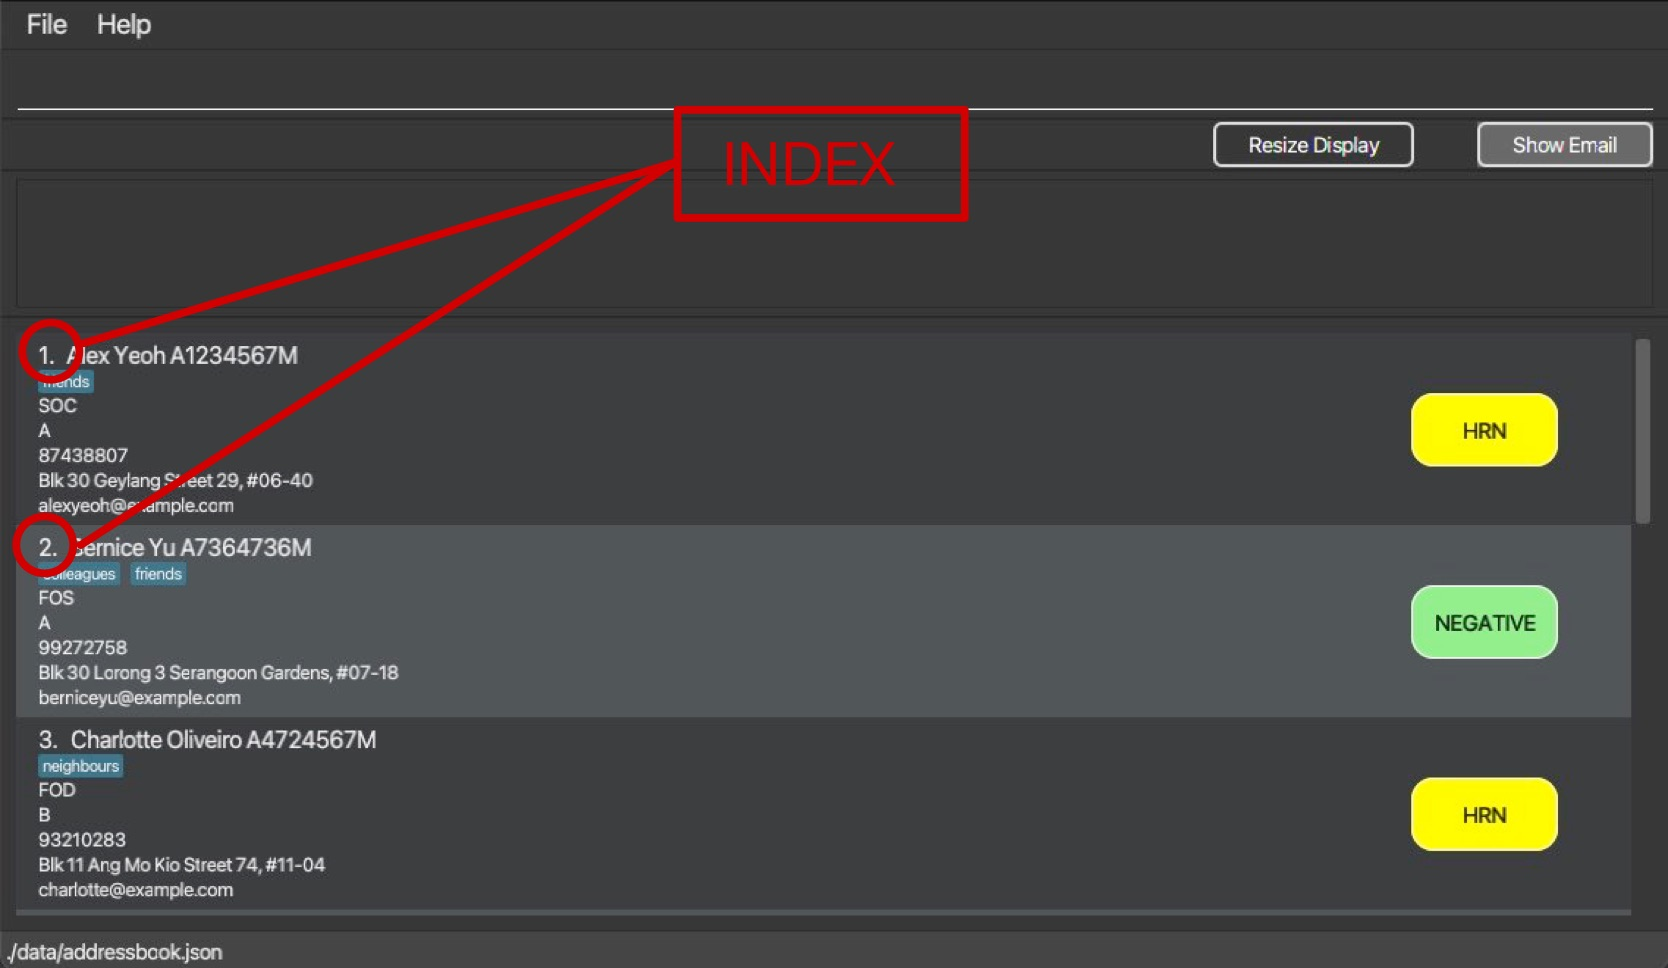
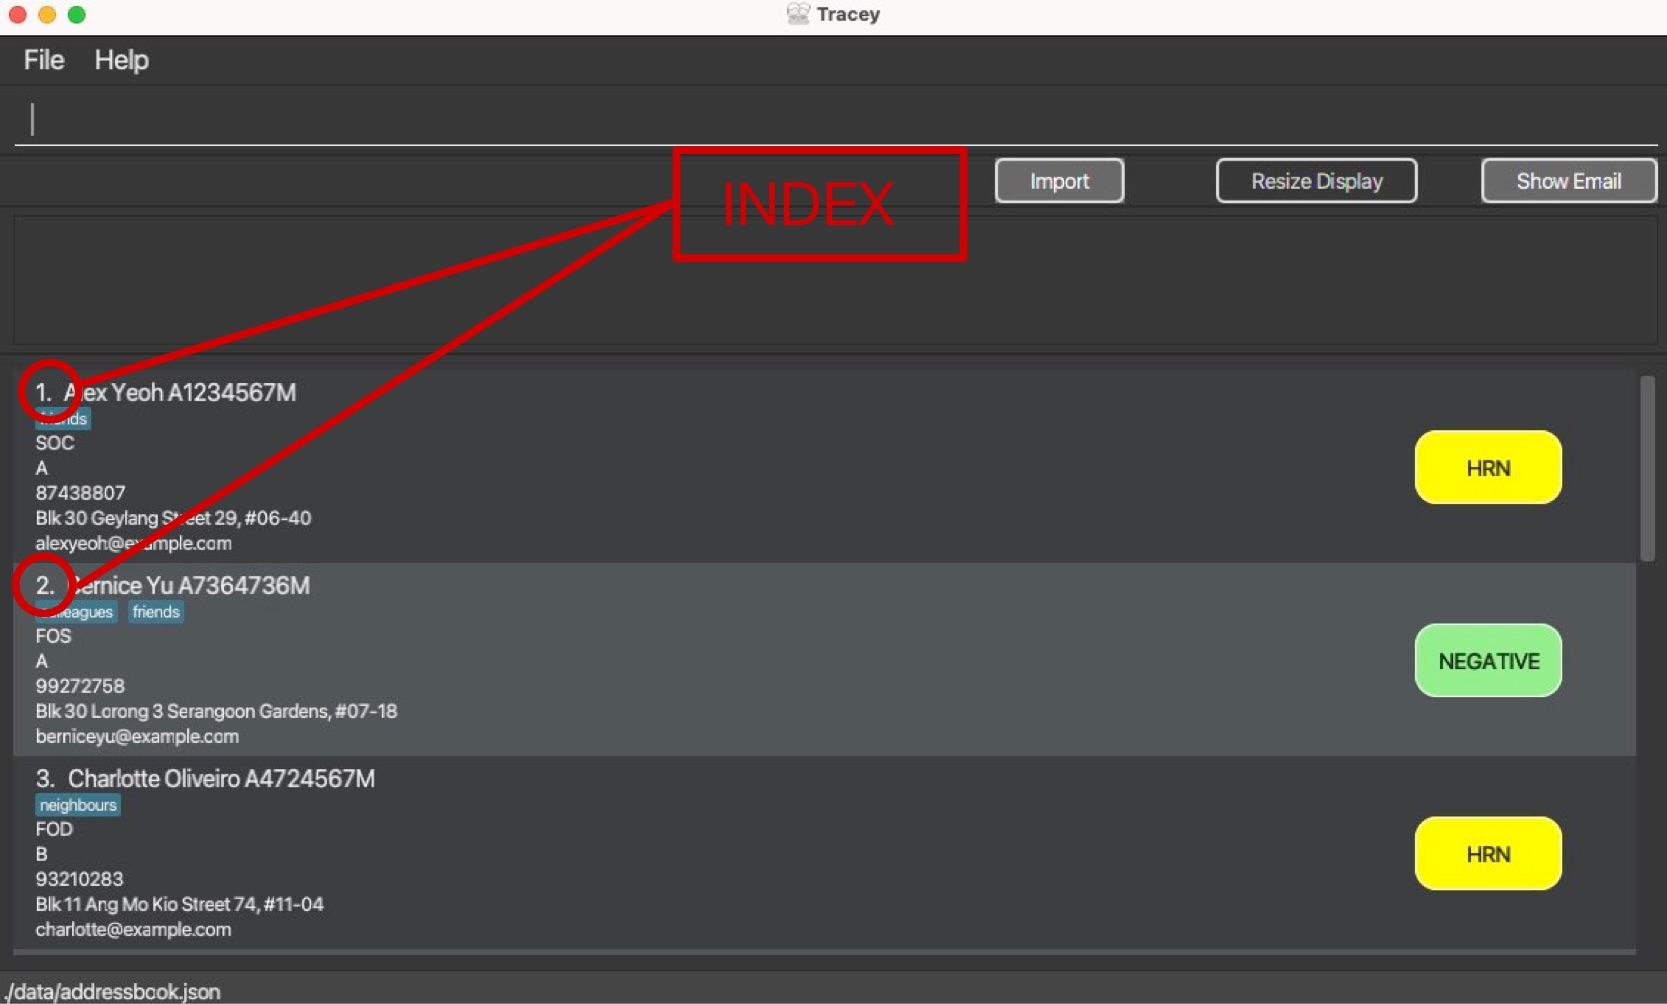
Make user guide have all relevant commands

diff --git a/docs/UserGuide.md b/docs/UserGuide.md
@@ -9,8 +9,10 @@ Tracey is a **desktop app for managing health statuses of NUS Hall Residents, op
 Interface** (CLI) while still having the benefits of a Graphical User Interface (GUI). If you can type fast,
 Tracey can get your student health status management tasks done faster than traditional GUI apps.
 
-What are CLIs? What are GUIs?
+<details>
+  <summary>What are CLIs?</summary>
 
+##  What are GUIs?
 1) CLIs are Command Line Interfaces. CLIs connect you to a computer program and through the CLI, you can interact with the application by typing in texts (commands).
 2) GUIs are Graphical User Interfaces. GUIs are a system of interactive visual components for computer applications. You can interact with a GUI through a pointing device, such as your mouse.
 
@@ -19,11 +21,13 @@ Note that the main difference between GUI and CLI is the method of interaction.
 As Tracey is a Command Line Interface, these are the aspects that highlight the power of Tracey and why it was developed using a CLI:
 
 1. **Speed** <br>
-Tracey offers immense response speed. GUIs require additional resources to render graphical components, making them slower than CLIs.
+   Tracey offers immense response speed. GUIs require additional resources to render graphical components, making them slower than CLIs.
 2. **Functionality** <br>
-Tracey offers flexibility in its use. A typical GUI does not have the same level of functionality and granular control as a typical CLI. This is portrayed in the variety of features that Tracey offers, which you can learn about more in this User Guide.
+   Tracey offers flexibility in its use. A typical GUI does not have the same level of functionality and granular control as a typical CLI. This is portrayed in the variety of features that Tracey offers, which you can learn about more in this User Guide.
 3. **Scalability** <br>
-Simple command functions in Tracey allows it to handle various complex features. Additionally, the CLI of Tracey allows easier integration of newer features that may be added in future iterations, compared to GUIs which require rendering and creation of graphical components.
+   Simple command functions in Tracey allows it to handle various complex features. Additionally, the CLI of Tracey allows easier integration of newer features that may be added in future iterations, compared to GUIs which require rendering and creation of graphical components.
+
+</details>
 
 Sounds exciting? Proceed on to the next section to learn more about Tracey!
 
@@ -92,7 +96,7 @@ Additional formatting guidelines:
 3. Copy the file to the folder you want to use as the home folder for your Tracey application.
 4. Double-click the file to start the app. The GUI similar to the below should appear in a few seconds.
    Note how the app contains some sample data. <br>
-   ![Ui](images/UiScreenshot.png) *Figure 1: Screenshot showing sample data* <br>
+   ![Ui](images/UiScreenshot.png) *Figure 1: Screenshot showing sample data.* <br>
    📓`Note:`
    1. If you are a Mac user and are unable to open the JAR file after double-clicking, please open Terminal and change directory to where **Tracey.jar** is located. Then, type the following command to open the application: `java -jar Tracey.jar`.
    2. If you are a Windows user and are unable to open the JAR file after double-clicking, please open Command Prompt and change directory to where **Tracey.jar** is located. Then, type the following command to open the application: `java -jar Tracey.jar`.
@@ -132,8 +136,16 @@ Format: `help`
 Add a list of students from an Excel file into Tracey.
 
 Format: import button
-* Adds a list of students with relevant details such as Covid status into Tracey.
-* Relevant details required are mentioned in the section below in the ~Adding a contact~ section. 
+* Adds a list of students with Relevant Details such as Covid status into Tracey.
+* Relevant details required are mentioned in Table 4 below.
+* In the Excel sheet, the first column has to be the names of students followed by the Relevant Details.
+* Tracey will then store all students from the Excel file into her!
+
+Sample Excel file:
+![Excel_Sample](images/Excel_Sample.png) *Figure 3: Screenshot of Excel file.*
+
+How to identify import button:
+![Import_Button](images/Import_Button.png) *Figure 4: Screenshot of import button.*
 
 ### Adding a contact
 Add a student with relevant details into Tracey.
@@ -197,7 +209,7 @@ Format: `edit INDEX n/NAME ...`
 * You can remove all tags of the student by typing `t/` without specifying any details after it.
 
 How to identify `INDEX`:
-![FAQ_IndexLocation](images/FAQ_IndexLocation.png)
+![FAQ_IndexLocation](images/FAQ_IndexLocation.png) *Figure 5: Screenshot of index location.*
 
 Examples of usage:
 * `edit 1 p/91234567 e/johndoe@example.com` edits the phone number and email address of the 1st student to be `91234567`
@@ -218,7 +230,7 @@ Format: `delete INDEX`
 * You can only delete the contact information at an index where there is a student assigned to it.
 
 How to identify `INDEX`:
-![FAQ_IndexLocation](images/FAQ_IndexLocation.png)
+![FAQ_IndexLocation](images/FAQ_IndexLocation.png) *Figure 5: Screenshot of index location.*
 
 Examples of usage:
 * `delete 2` removes the 2nd student on the list.
@@ -252,7 +264,7 @@ Find a particular contact in Tracey and retrieve their specific details.
 Format: `find NAME`
 * Returns the student(s) whose name(s) contain the input keyword `NAME` with their **details**.
 * The **details** provided are the student's `Name`, `Matriculation Number`, `Faculty`, `Block`, `Phone`, `Address`, `Email` amd `Covid Status`.
-* A screenshot (Figure 1) is provided below to demonstrate what the find function returns.
+* A screenshot (Figure 6) is provided below to demonstrate what the find function returns.
 * The search is case-insensitive. e.g `johnDoe` will match `Johndoe`.
 * The search does not require full name. e.g. `jo` will match `Joe` and `John`.
 
@@ -263,9 +275,9 @@ Examples of usages:
 * `find J` returns `john` and`jay`.
 
 Scenario:
-![find](images/FindScreenshotForUG.png) *Figure 3: Screenshot of result of the find command*
+![find](images/FindScreenshotForUG.png) *Figure 6: Screenshot of result of the find command.*
 
-As seen in the *Figure 3*, after the user keys in `find Bernice`, the application returns Bernice's details: `Name`, `Matriculation Number`, `Faculty`, `Block`, `Phone`, `Address`, `Email` amd `Covid Status`.
+As seen in the *Figure 6*, after the user keys in `find Bernice`, the application returns Bernice's details: `Name`, `Matriculation Number`, `Faculty`, `Block`, `Phone`, `Address`, `Email` amd `Covid Status`.
 
 ### Filtering contacts
 Filter students based on faculties, health statuses and/or blocks.
@@ -286,9 +298,9 @@ Examples of usage:
 * `filter cs/negative f/soc b/e` returns all students that are tagged as covid-negative, enrolled in the faculty SOC (School of Computing) and live in block E of the hall.
 
 An example is shown below:
-![find](images/FilterScreenshotForUG.png) *Figure 4: Example result of `filter` command*
+![find](images/FilterScreenshotForUG.png) *Figure 7: Example result of `filter` command.*
 
-As seen in *Figure 4*, using the `filter` command with "negative" as covid status, "soc" as faculty and "e" as block will return a list of contacts matching these criteria.
+As seen in *Figure 7*, using the `filter` command with "negative" as covid status, "soc" as faculty and "e" as block will return a list of contacts matching these criteria.
 
 📓`Note:`
 * `filter` command only allows you to search via faculty, health status and block. To search for contacts whose names contain a keyword, use the `find` command instead.
@@ -300,7 +312,7 @@ Format: `list`
 
 This is a sample screenshot of what you can expect from the `list` command.
 
-![list](images/ListFeatureScreenShot.PNG) *Figure 5: Screenshot of list command.*
+![list](images/ListFeatureScreenShot.PNG) *Figure 8: Screenshot of list command.*
 
 ### Copying emails
 Opens up a separate window that consists of all the emails of the current displayed individuals. On the window, there will be a `Copy Email` button that copies the list of emails to the user's clipboard to allow the user to efficiently send out mass emails.
@@ -310,9 +322,9 @@ Format:`email`
 📓`Note:`
 There is also a `Show Email` button on the GUI which you can click to open the same window.
 
-![Email](images/CopyEmailScreenshot.png) *Figure 6: Screenshot of Copy Email function.*
+![Email](images/CopyEmailScreenshot.png) *Figure 9: Screenshot of Copy Email function.*
 
-From Figure 7, this function is beneficial for administrators as you may want to contact this particular set of students. Simply click `Copy Email` and you can go to the email platform of your choice and paste this in the Address section. This function definitely faster than individually copy-pasting student emails.
+From Figure 9, this function is beneficial for administrators as you may want to contact this particular set of students. Simply click `Copy Email` and you can go to the email platform of your choice and paste this in the Address section. This function definitely faster than individually copy-pasting student emails.
 
 ### Summarising the records
 Summarises the statistics of the student records inside Tracey.
@@ -323,9 +335,9 @@ Format:`summarise`
 Example of usage:
 * `summarise` will summarise the records of everyone in Tracey. The result is a graphical analysis the `Covid Status` of the individuals in each block. Additionally, an overview of the `Covid Status` of the Hall population is also provided (refer to figure 4).
 
-![SummariseExample](images/SummariseExample.png) *Figure 7: Example response of Tracey in response to the `summarise` command*
+![SummariseExample](images/SummariseExample.png) *Figure 10: Example response of Tracey in response to the `summarise` command.*
 
-From Figure 4, when the user inputs the `Summarise` command, the result are multiple pie charts of the proportion of the student population categorised by `Covid Status`. These pie charts are separated into the student `Blocks` and the wider hall population.
+From Figure 10, when the user inputs the `Summarise` command, the result are multiple charts of the proportion of the student population categorised by `Covid Status`. These charts are separated into the student `Blocks` and the wider hall population.
 
 ### Archiving Tracey
 Archives the current Tracey database. The archived database will be saved in `[ROOT]/data/archive/[DATE]/[ARCHIVED_FILE]` where:
@@ -351,7 +363,7 @@ Resizes the result display window to 3 pre-set sizes.
 Format: `resize SIZE`
 * There are 3 options for `SIZE` which are 1, 2 and 3.
 * The default result display window size is option 1.
-* Refer to figures 8 for the comparison for the different result display window sizes. 
+* Refer to figures 11 for the comparison for the different result display window sizes. 
 
 💡`Tips:`
 * This feature is especially useful if you need a bigger result display window size to better view the result feedback given by Tracey, especially if the result feedback is long.
@@ -359,7 +371,7 @@ Format: `resize SIZE`
 📓`Note:`
 * There is also a `Resize Window` button on the GUI which you can click to cycle between the 3 different resizing options.
 * 
-![Comparison of 3 resize options](images/resize_options.png) *Figure 8: Comparison of the 3 different resizing options for the result display window.*
+![Comparison of 3 resize options](images/resize_options.png) *Figure 11: Comparison of the 3 different resizing options for the result display window.*
 
 ### Clearing all records
 Clear all the data inside Tracey.
@@ -400,7 +412,7 @@ there are changes to Tracey.
 
 4. **Q**: Where can I find the `INDEX` of a student? <br>
    **A**: They can be found in the numbers located beside each individual student. <br>
-   ![FAQ_IndexLocation](images/FAQ_IndexLocation.png)
+   ![FAQ_IndexLocation](images/FAQ_IndexLocation.png) *Figure 5: Screenshot of index location.*
 
 5. **Q**: The `delete` feature only allow us to delete via the `INDEX` assigned to each particular student. How do I know the `INDEX` of the student i want to use `delete` on? <br>
    **A**: The `INDEX` used for `delete` is not fixed. It relies on the number in which the displayed list of students will assign.
